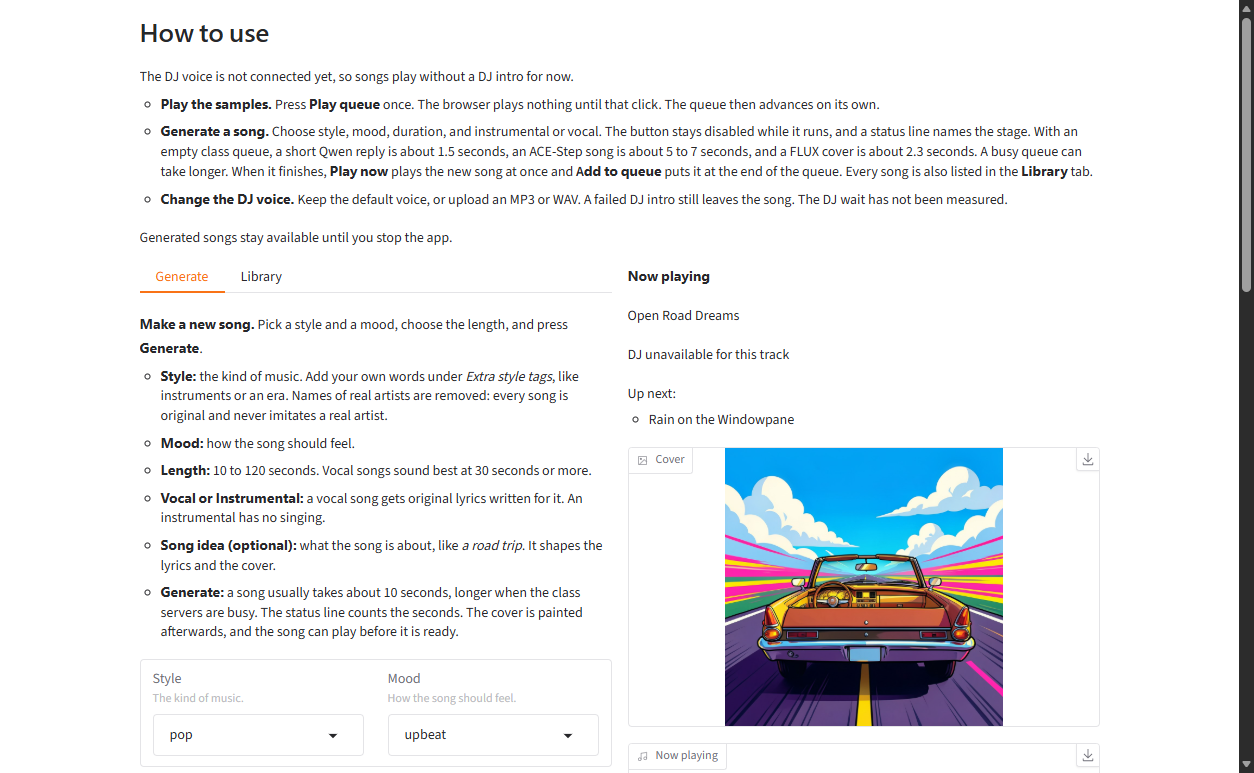
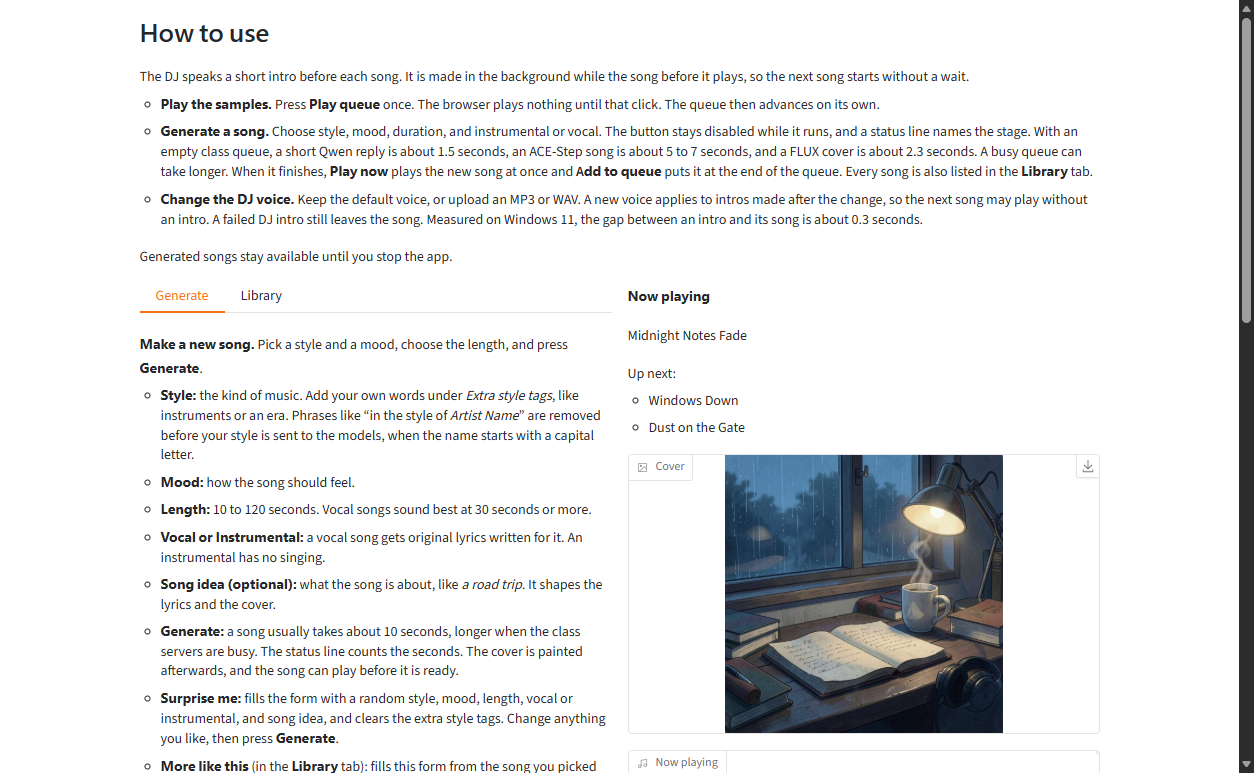
docs(screenshots): DJ with the default and an uploaded voice, and a new main screen and player (C7) (#82)
* docs(screenshots): DJ with the default and an uploaded voice, and a new main screen and player (C7)

Taken from main at 690b406 (the rc2 commit), since rc1 had no DJ.

AI-assisted: Claude Code; reviewed and tested by @felcervino

* docs(screenshots): keep the rc1 player shot for TC-04; the DJ-era one is player-now-playing-dj.png (C7)

AI-assisted: Claude Code; reviewed and tested by @felcervino

* docs(screenshots): rc2 was tagged from 690b406; main-screen is the top of the app (C7)

AI-assisted: Claude Code; reviewed and tested by @felcervino

---------

diff --git a/docs/screenshots/README.md b/docs/screenshots/README.md
@@ -1,23 +1,30 @@
 # Screenshots (C7)
 
-Taken by @felcervino with Claude Code on 2026-10-26, Windows 11, from the `rc1` tag (`a1a8846`), running
-`python app.py` against the class services, in a headless Microsoft Edge at 1280 px wide, light theme.
+Taken by @felcervino with Claude Code on Windows 11, running `python app.py` against the class services, in a
+headless Microsoft Edge at 1280 px wide, light theme. Most are from the `rc1` tag (`a1a8846`, 2026-10-26).
+The DJ shots, `main-screen.png` and `player-now-playing-dj.png` were taken on 2026-10-29 from `main` at
+`690b406`, the commit `rc2` was tagged from, because `rc1` had no DJ.
 Each was checked for credentials before it was committed: none shows `.env`, a key, a server address, a
 terminal, or browser devtools (DL10).
 
 | File | Shows | For |
 |---|---|---|
-| `main-screen.png` | The whole app: How to use, the Generate tab, and the player playing a generated song | README Overview |
+| `main-screen.png` | The top of the app (one 1280 px window): How to use, the Generate tab, and the player playing a sample song with two more under Up next | README Overview (not written yet, A9) |
 | `generate-vocal-song.png` | The Generate tab after a vocal song (pop, upbeat, 60 s, idea "road trip"): status, title, cover, lyrics, Play now and Add to queue | Using the app: Generate a song |
 | `cover-instrumental-result.png` | The result card of an instrumental song (lo-fi hip hop, mellow, 45 s) with its cover | Using the app: Cover art |
 | `library-song-cover.png` | The Library with the vocal song picked: its cover and details | Using the app: Cover art, Library |
 | `library-midnight-coffee-steam.png` | The Library with the second instrumental song ("Midnight Coffee Steam") picked: its own cover and details | TC-04 evidence |
-| `player-now-playing.png` | The player: Now playing with the song's cover, the audio player, and Up next with the next song's cover | Using the app: playback |
+| `player-now-playing.png` | On `rc1`: the player, Now playing with the song's cover, the audio player, and Up next with the next song's cover (it also shows rc1's "DJ unavailable for this track") | TC-04 evidence |
+| `player-now-playing-dj.png` | The player: Now playing a vocal sample ("Windows Down") with its cover, the audio player, and Up next with the next song's cover; the DJ voice box below shows a custom voice | Using the app: Generate a song (playback) |
+| `dj-default-voice.png` | The DJ speaking before the first sample, in the default voice: "DJ speaking…", Up next, and the DJ voice box saying "Default DJ voice" | Using the app: DJ (not written yet, D7) |
+| `dj-custom-voice.png` | The DJ speaking in a custom voice uploaded through the DJ voice box: "Custom voice active" and **Reset to default** | Using the app: DJ (not written yet, D7) |
 | `error-cover-failed-retry.png` | Error state: FLUX unreachable, so the song keeps the placeholder cover, with the note and Retry cover | Using the app: Cover art; error state |
 
 Notes:
 - The error state was made by starting the app with the environment variable
   `FLUX_BASE_URL=http://127.0.0.1:9006` (nothing listens there on our machines; the port must stay 9006 or
   the config check refuses it), so the cover call failed. No settings file was changed.
-- `rc1` has no DJ voice yet ("DJ unavailable for this track"), so the DJ screenshots wait for the next
-  release candidate.
+- The custom voice is @felcervino's own recording, uploaded through the app's **DJ voice** box. The app
+  keeps it in `runtime/uploads/` (gitignored); the recording isn't committed, and its file name doesn't show.
+- A screenshot can't show sound. @felcervino listened in the same app run on 2026-10-29: the DJ intros
+  played in the default voice with the default set, and in the uploaded voice with the recording active.

diff --git a/README.md b/README.md
@@ -117,9 +117,9 @@ Same steps, but choose **Vocal** in step 4. The first stage after **Queued** is 
 
 The vocal result card is in the screenshot above, and an instrumental one is under [Cover art](#cover-art).
 
-![The player: Now playing with the song's title and cover, the audio player, and Up next with the next song's cover](docs/screenshots/player-now-playing.png)
+![The player: Now playing with the song's title and cover, the audio player, and Up next with the next song's cover](docs/screenshots/player-now-playing-dj.png)
 
-*The player playing the vocal song, with the next song under **Up next**.*
+*The player playing a vocal sample song, with the next song under **Up next**.*
 
 **What to expect**
 - **Wait:** about 5 to 10 seconds per song when the class servers are quiet. We measured 4.8 to 9.5 s in B5 (#32), 5.5 to 7 s in B6 (#36), and a reviewer saw 7 s. Most of it is the music model (ACE-Step, 4.4 to 8.4 s); the text model (Qwen) takes 0.4 to 1.5 s. The page says "usually about 10 s". It can take longer when many people use the class servers, and the status line keeps counting so you can see it hasn't frozen.
